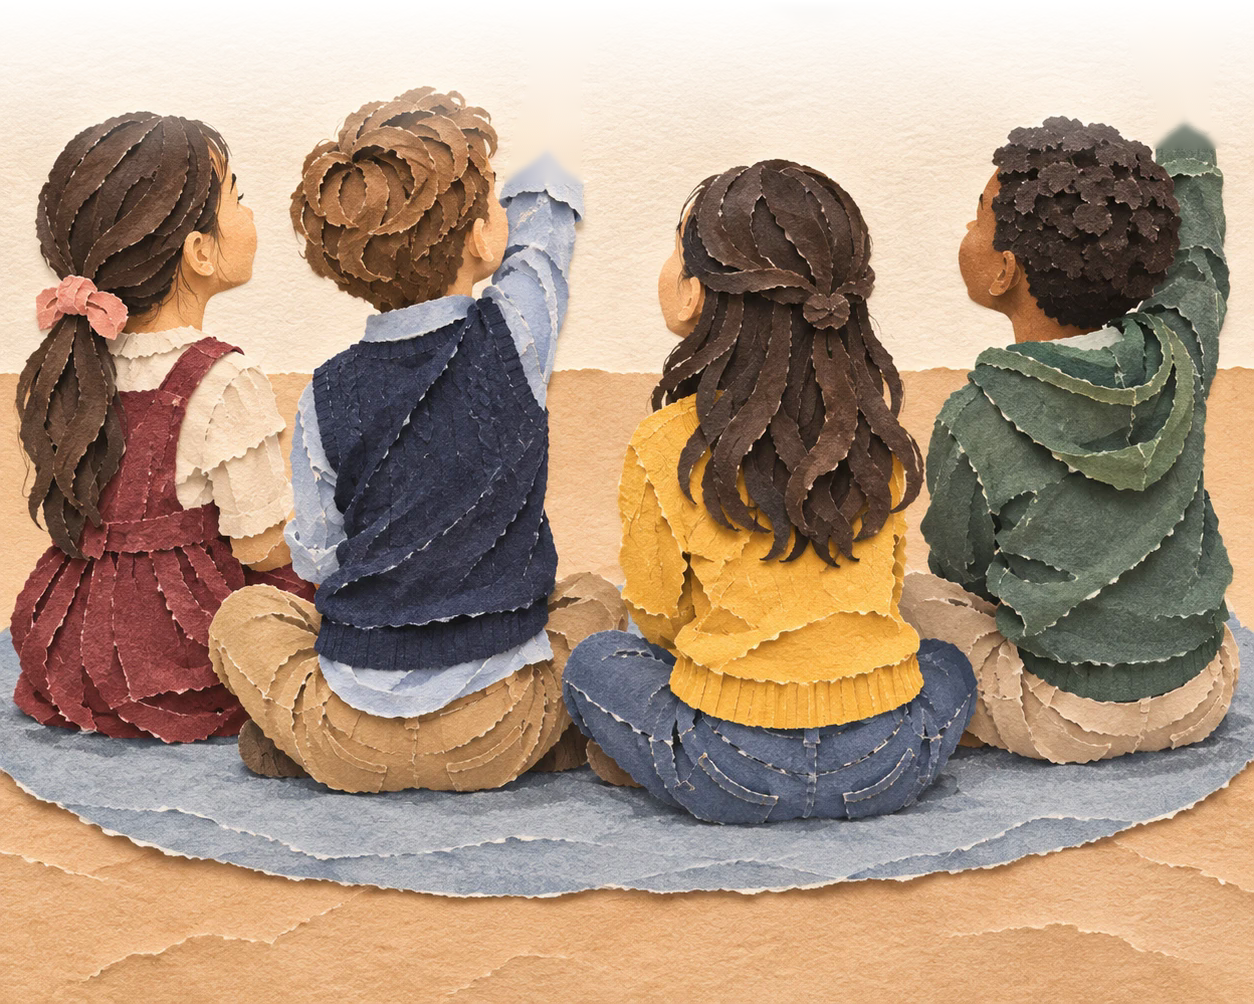
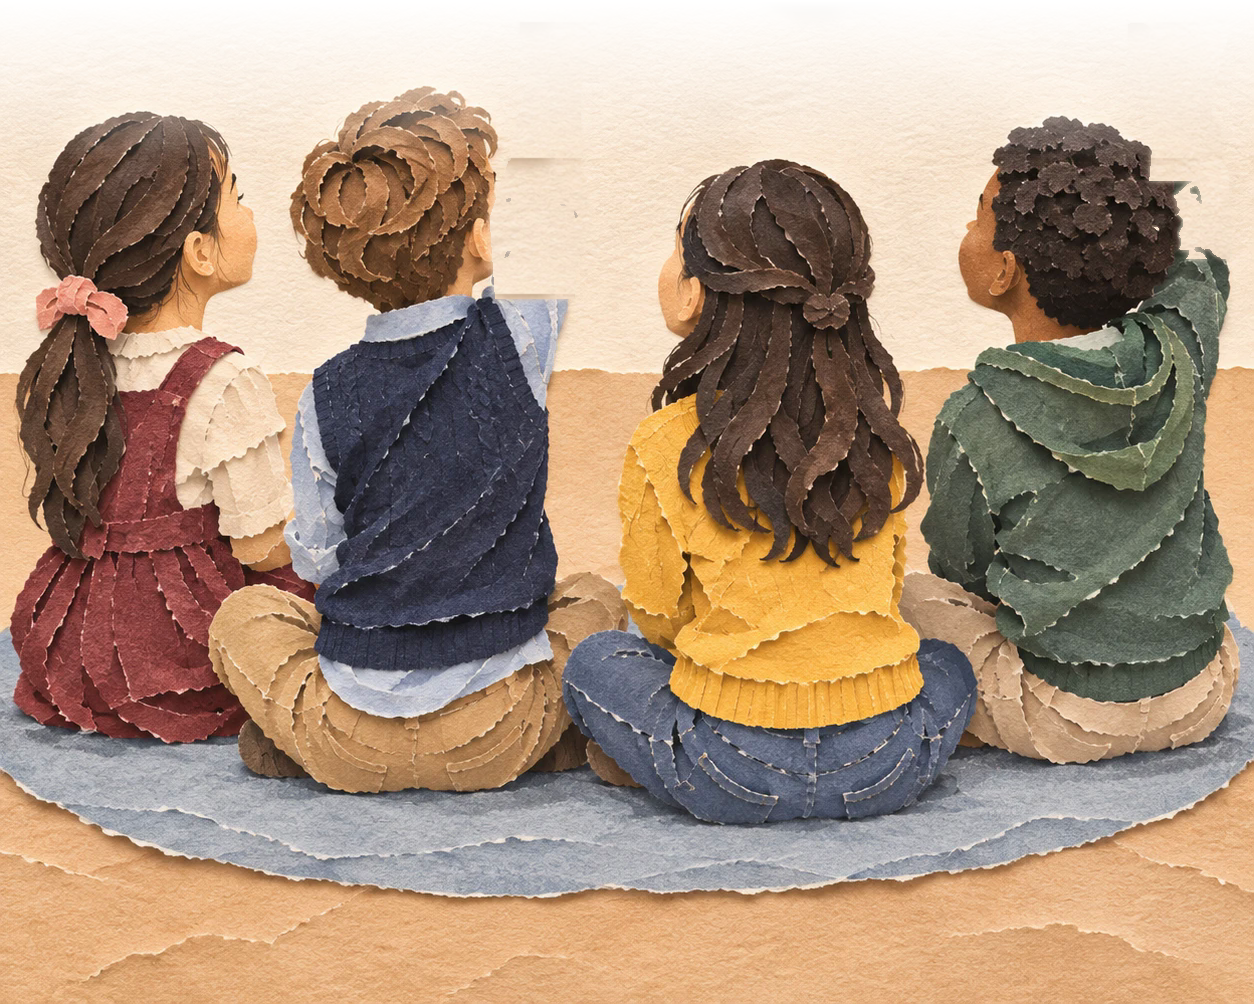
AI 질문 reel (Joy): children's hands start down and swing up (no squashed arm), the wall behind the arms filled with real wall paper

Changed region(s): [[0.3732, 0.1544, 0.4665, 0.3088], [0.9019, 0.1235, 0.9952, 0.2779]]

diff --git a/remotion/src/PaperThink.tsx b/remotion/src/PaperThink.tsx
@@ -220,10 +220,11 @@ const Kids: React.FC<{t: number; fps: number; top: number; raise: (number | null
   <div style={{position: 'absolute', left: 0, top, width: 1080, height: 1920 - top}}>
     <Img src={staticFile('paper/kids-base.png')} style={{position: 'absolute', left: 0, top: 0, width: 1080, transformOrigin: '50% 100%', transform: `scaleY(${1 + Math.sin(t * 2) * .004})`}} />
     {ARMS.map((a, i) => { const r = raise[i]; if (r == null) return null;
-      const p = Math.max(0, spring({frame: Math.round((t - r) * fps), fps, config: {damping: 9, stiffness: 110, mass: .8}}));
-      const wob = Math.sin(t * (p > .9 ? 5 : 2.2) + i * 2) * (p > .9 ? 3 : 1.5);
+      // Joy (24 Nov): hands down first, then raised; the arm swings up from hanging by the side
+      const p = Math.max(0, spring({frame: Math.round((t - r) * fps), fps, config: {damping: 11, stiffness: 95, mass: .9}}));
+      const wob = p > .9 ? Math.sin((t - r) * 5 + i) * 2.5 : 0;
       return <Img key={i} src={staticFile(a.src)} style={{position: 'absolute', left: a.x * KK, top: (a.y - 250) * KK, width: a.w * KK, height: a.h * KK,
-        transformOrigin: `${(a.px - a.x) * KK}px ${(a.py - a.y) * KK}px`, transform: `rotate(${(1 - p) * (i ? 30 : -30) + wob}deg) scaleY(${.42 + .58 * Math.min(p, 1.06)})`, filter: SHADOW}} />; })}
+        transformOrigin: `${(a.px - a.x) * KK}px ${(a.py - a.y) * KK}px`, transform: `rotate(${(1 - p) * (i ? 105 : -105) + wob}deg)`, opacity: Math.min(1, p * 3.5), filter: SHADOW}} />; })}
   </div>
 );
 
@@ -281,7 +282,7 @@ export const PaperThink: React.FC = () => {
       {vis('hook') && W('hook', (() => { const l = lt('hook');
         return <AbsoluteFill style={{transform: `scale(${1.05 - l * .015})`, transformOrigin: '50% 70%'}}>
           <Classroom t={t} />
-          <Kids t={t} fps={fps} top={1000} raise={[.35, .75]} />
+          <Kids t={t} fps={fps} top={1000} raise={[.6, 1.1]} />
           {KID_HEADS.flatMap((hx, i) => [0, 1].map((j) => { const st = .5 + i * .22 + j * .35; const k = sp(t, st, fps, 9); const up = interpolate(t - st, [0, 1.6], [0, 1], clamp);
             return k > .02 && <CutText key={`${i}${j}`} text={j ? '!' : '?'} size={j ? 96 : 130} color={(i + j) % 2 ? C.yellow : C.red}
               style={{position: 'absolute', left: hx - 40 + (j ? 60 : -10) + Math.sin(t * 3 + i) * 6, top: 1010 - 230 * k - up * 60, transform: `rotate(${(i - 1.5) * 8 + Math.sin(t * 4 + i * 2) * 5}deg) scale(${k})`}} />; }))}

diff --git a/projects/2026-11-ai-question/cut_kids.py b/projects/2026-11-ai-question/cut_kids.py
@@ -7,8 +7,8 @@ im = cv2.imread("projects/2026-11-ai-question/faces/kids.png"); h, w = im.shape[
 lab = cv2.cvtColor(cv2.GaussianBlur(im, (0, 0), 1.5), cv2.COLOR_BGR2LAB).astype(np.float32)
 wall = np.median(lab[300:380, 700:900].reshape(-1, 3), axis=0); print("wall BGR", np.median(im[300:380, 700:900].reshape(-1, 3), axis=0))
 notwall = np.sqrt(((lab - wall) ** 2 * np.array([.4, 1.5, 1.5])).sum(-1)) > 10
-ARMS = {"a": ([(505, 188), (632, 188), (626, 330), (606, 420), (612, 470), (604, 560), (500, 560), (494, 470), (514, 410), (508, 300)], 430, (552, 555)),
-        "b": ([(1118, 215), (1240, 215), (1236, 330), (1248, 450), (1250, 565), (1160, 565), (1150, 470), (1158, 380), (1140, 320)], 395, (1200, 560))}
+ARMS = {"a": ([(505, 188), (632, 188), (626, 330), (606, 420), (612, 470), (604, 560), (500, 560), (494, 470), (514, 410), (508, 300)], 545, (552, 555)),
+        "b": ([(1118, 215), (1240, 215), (1236, 330), (1248, 450), (1250, 565), (1160, 565), (1150, 470), (1158, 380), (1140, 320)], 505, (1200, 560))}
 inp = np.zeros((h, w), np.uint8); out = {}
 for k, (poly, ywall, piv) in ARMS.items():
     m = np.zeros((h, w), np.uint8); cv2.fillPoly(m, [np.array(poly, np.int32)], 255)
@@ -19,7 +19,15 @@ for k, (poly, ywall, piv) in ARMS.items():
     ys, xs = np.nonzero(m); x0, y0, x1, y1 = xs.min(), ys.min(), xs.max() + 1, ys.max() + 1
     layer = np.dstack([im, cv2.GaussianBlur(m, (3, 3), 0)])[y0:y1, x0:x1]
     cv2.imwrite(f"remotion/public/paper/kid-arm-{k}.png", layer); out[k] = (int(x0), int(y0), int(x1 - x0), int(y1 - y0), piv)
-base = cv2.inpaint(im, inp, 11, cv2.INPAINT_TELEA)
+# fill where the raised arms were with real wall paper, copied from the wall higher up in the same columns (no smears),
+# keeping the dark vest and hair; TELEA only blends the seams
+base = im.copy(); fillm = (inp > 0)
+dark = lab[..., 0] < 95; fillm &= ~(dark & (yy > 430))
+patch = im[262:398, 690:890]                       # clean wall paper between the children, above their heads
+tile = np.tile(patch, (h // patch.shape[0] + 1, w // patch.shape[1] + 1, 1))[:h, :w]
+m = cv2.GaussianBlur(fillm.astype(np.float32), (0, 0), 3)[..., None]; m = np.maximum(m, fillm[..., None].astype(np.float32))
+tile = cv2.GaussianBlur(tile, (0, 0), .6); base = (tile * m + im * (1 - m)).astype(np.uint8)
+
 TOP = 250; base = base[TOP:]; a = np.full(base.shape[:2], 255, np.uint8)
 fade = np.clip((np.arange(base.shape[0]) - 0) / 160, 0, 1); a = (a * fade[:, None]).astype(np.uint8)
 cv2.imwrite("remotion/public/paper/kids-base.png", np.dstack([base, a]))
